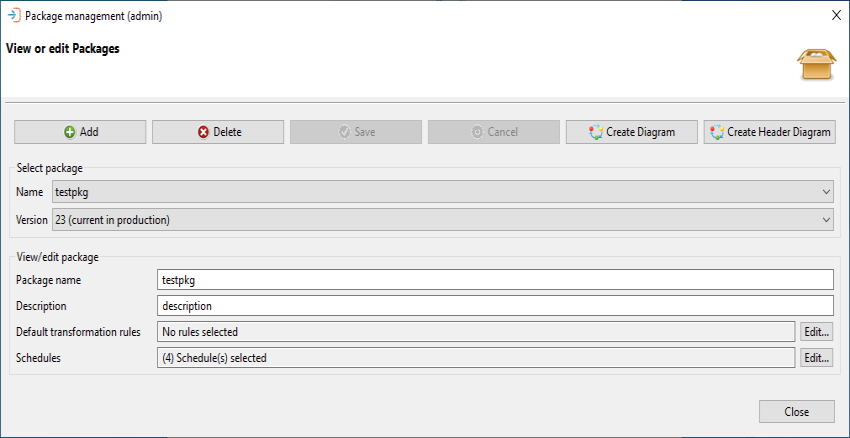
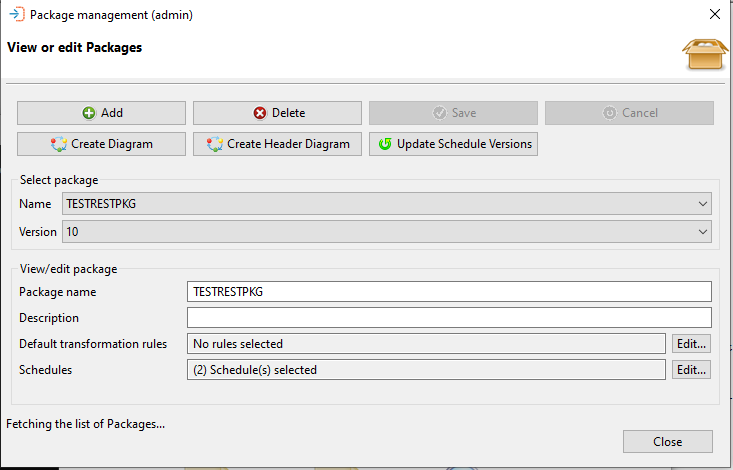
version 2.3 updates

diff --git a/docs/packages.md b/docs/packages.md
@@ -16,11 +16,23 @@ The Manage function allows packages to be managed in the OpCon Deploy system. It
 
 When working with the View or edit Packages dialog, the information of an existing package can be displayed by selecting the package from the Name drop-down list. Once the package name has been selected, a list of versions of the package will appear in the Version drop-down list. If the package is deployed to production, the version that is deployed to production will be indicated on the drop-down list. When a version has been selected, the information is displayed in the View/edit package section of the dialog.
 
-When a package is selected, the Create Diagram and Create Header Diagram buttons are activated, making it possible to create a diagram from the package definition. The diagram is then displayed in PDF format.
+When a package is selected, the Create Diagram, the Create Header Diagram and the Update Schedule Versions buttons are activated, making it possible to create a diagram from the package definition or update the schedule version of all schedules associated with the package to the latest version in the Deploy database. When a diagram has been selected, it is displayed in PDF format.
 
 The Create Diagram button creates a complete diagram of the schedules, including: jobs, resources, and dependencies. The Create Header Diagram button creates a diagram which displays the schedule header with container jobs only. If job dependencies exist between the jobs on the schedules, these dependencies will be displayed. Please refer to the topic Package and Schedule Diagram for more information.
 
 If changes are made to the package information, then the Save and Cancel buttons will be enabled.
+
+Updating the Schedule Versions of a package
+
+Clicking the Update Schedule Versions button will bring up the Update Schedule Versions confirmation message:
+
+![Update Package Schedule Versions Confirmation Message](/img/update-package-schedule-versions-confirmation.png)
+
+Confirming the message will update the version of schedules associated with the package to the latest version of the schedule in the Deploy database. If the schedule version is the already the latest version, no changes are made.
+
+A completion message is displayed in the upper message bar.
+
+If changes have been made, the Save and Cancel buttons will be enabled. To save the changes and create a new package version, click on the Save button.
 
 Deleting a Package
 

diff --git a/docs/schedules.md b/docs/schedules.md
@@ -28,11 +28,14 @@ Once Next has been selected, the list of schedules will be retrieved from the ch
 
 ![Schedule Import Schedule Selection Image](/img/schedule-import-schedule-selection.png)
 
-Once Next has been selected, the selected schedule(s) will be displayed in the Schedule Import (Summary) dialog appears. This provides a summary of your selections, provides a Refresh SAP Job Definitions checkbox to indicate if OpCon SAP R3 jobs are encountered in the schedule then the SAP server job definitions should be extracted from the SAP server (otherwise, uses values in 13100 and 13101 records), and adds a description that will be included in the import.
+Once Next has been selected, the selected schedule(s) will be displayed in the Schedule Import (Summary) dialog appears. This provides a summary of your selections, allows selection of import options and allows a description to be added to the import process.
+Supported IMport Options:
+- **Refresh SAP Job Definitions** indicates if OpCon SAP R3 jobs are encountered in the schedule, then the SAP server job definitions should be extracted from the SAP server (otherwise, uses values in 13100 and 13101 records).
+- **Include Sub-Schedules** indicates if container jobs are encountered in the schedule, the associated sub-schedule should be included in the import process. The schedules are checked recursively and each sub-schedule is imported as a separate schedule. The result of all schedule imports is displayed in the results message.
 
 ![Schedule Import Summary Image](/img/schedule-import-summary.png)
 
-If the schedule(s) has been inserted successfully into the repository, you will get a success message indicating that the schedule has been inserted as version (*n*) for each selected schedule.
+If the schedule(s) has been inserted successfully into the repository, you will get a success message indicating that the schedule has been inserted as version (*n*) for each selected schedule. During the schedule import process a check is made to see if the schedule definition matches the current version in the Deploy database. If this is the case, a warning message will be displayed indicating that the schedule already exists in the database a version (*n*);
 
 ![Schedule Import Success Image](/img/schedule-import-success-message.png)
 

diff --git a/docs/batch-processing.md b/docs/batch-processing.md
@@ -54,6 +54,10 @@ The Batch.SMAOpConDeployClient.exe application supports the following arguments:
 
 * Optional flag used with DEPLOY. Use of this flag indicates that the schedule definitions on the target system should not be overwritten
 
+**-id**	
+
+* Optional argument for IMPORT, that indicates the record id of the deployment record. This is used by the batch deployment process. If this is not present a new deployment record is created (Default 0) 
+
 **-fw**
 
 * An argument that defines the filename used with IMPORT or INIT for schedules.
@@ -72,6 +76,14 @@ The Batch.SMAOpConDeployClient.exe application supports the following arguments:
 * Optional argument that defines the server name
     * For IMPORT or INIT, it is the name of the source OpCon system
     * For DEPLOY and SIMULATE, it is the name of the target OpCon system
+
+**-sap**
+
+* (Optional) Used to indicate that if a SAP job is encountered, the SAP definition must be extracted / inserted (Default false)
+
+**-sub**
+
+* (Optional) argument for IMPORT that is used to indicate that if sub-schedules are found in the schedules, the sub-schedules should also be included in the import process (Default false)
 
 **-t**	
 

diff --git a/docs/release-notes.md b/docs/release-notes.md
@@ -4,6 +4,15 @@ sidebar_label: 'Release notes'
 
 # OpCon Deploy Release Notes
 
+## Version 22.3
+
+2023 April
+
+:eight_spoked_asterisk: **OPCDEPLOY-1341**: Added new 'Include sub-schedules' option in Checkin Summary Page that will recursively add sub-schedules found during a schedule import to the import process. The import result
+of each schedule is displayed in the results view. The message reporting that the schedule version already exists, has been changed to a WARNING message and the color changed to dark yellow. 
+
+:eight_spoked_asterisk: **OPCDEPLOY-1343**: Added 'Update Schedule Versions' button to Package Dialog. When selected, the schedules associated with the package will be updated to the latest version of the schedule in the Deploy database. 
+
 ## Version 22.2
 
 2023 March

diff --git a/docs/index.md b/docs/index.md
@@ -7,7 +7,7 @@ sidebar_label: 'OpCon Deploy'
 
 OpCon Deploy is a separate application working on a central repository that contains the schedule definitions, transformation rules, and all the required configuration information to deploy the schedule definitions between OpCon environments in a controlled and consistent manner.
 
-The current version is **22.0**.
+The current version is **22.3**.
 
 ## Overview
 
